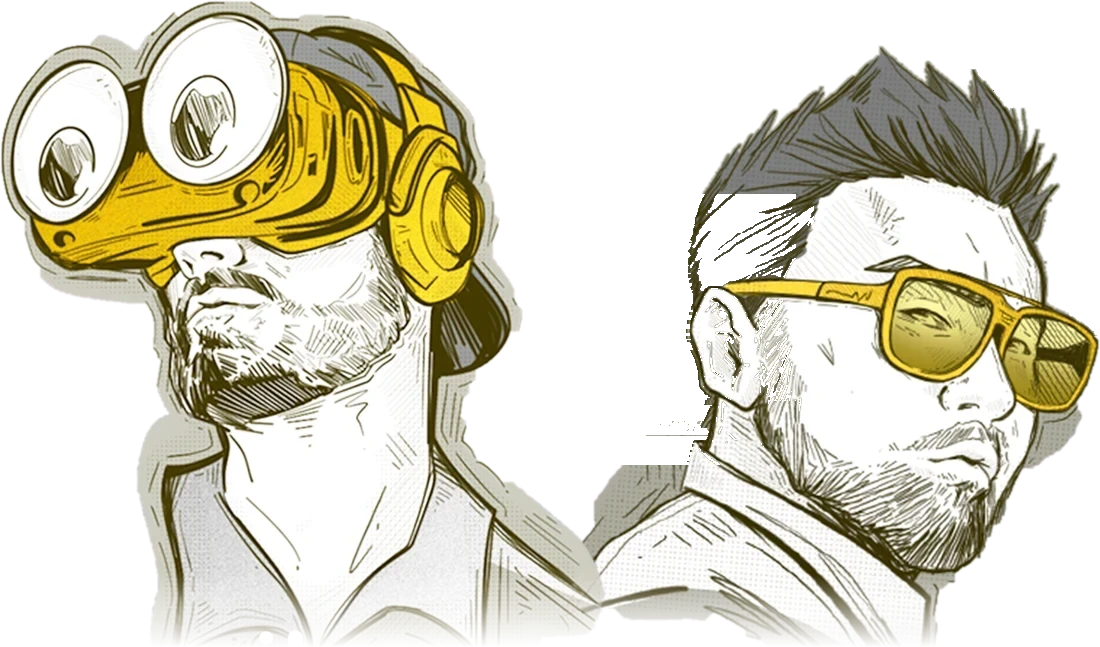
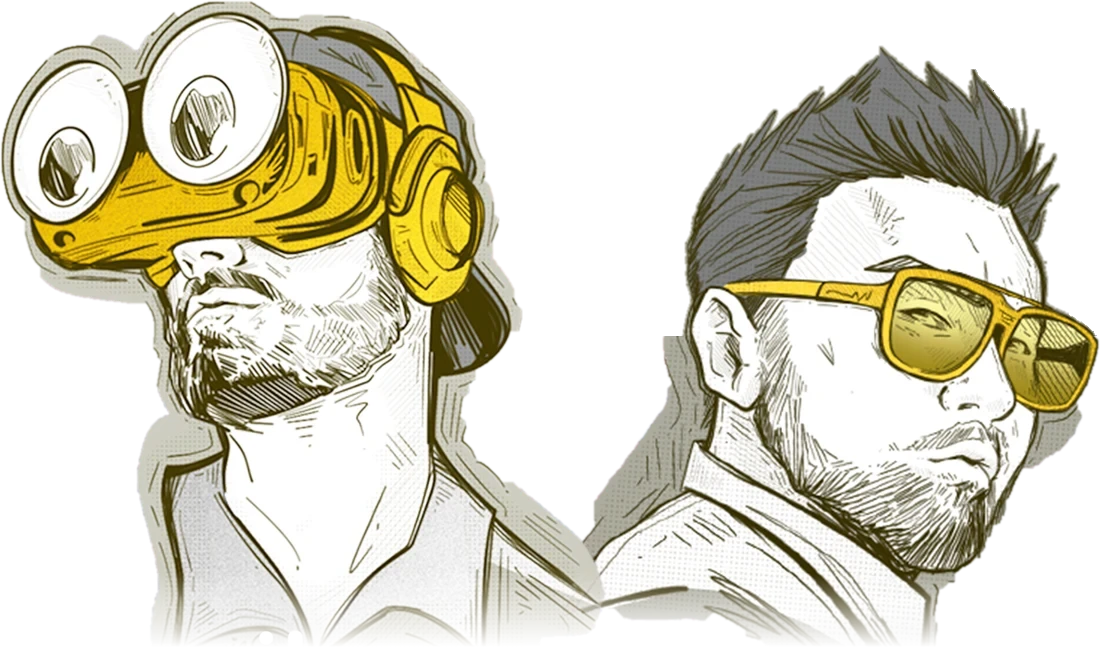
Restore hosts to post-hair-clean version
newsletter-hosts.webp and hosts img drop-shadow back to f2e189d
(right after gonZ hair crop cleanup).

Changed region(s): [[0.5564, 0.2782, 0.7418, 0.7419]]

diff --git a/app/styles/theme.css b/app/styles/theme.css
@@ -4326,7 +4326,7 @@ h2 {
   image-rendering: auto;
 }
 .dispatch__art--hosts { border: 0 !important; background: none !important; display: flex; align-items: flex-end; justify-content: center; min-height: 0 !important; aspect-ratio: auto !important; }
-.dispatch__art--hosts img { width: 100%; height: auto; display: block; filter: none; }
+.dispatch__art--hosts img { width: 100%; height: auto; display: block; filter: drop-shadow(0 10px 18px rgba(0,0,0,.18)); }
 @media (min-width: 768px) {
   .dispatch__art--hosts { align-self: end; margin-top: -4rem; margin-bottom: -3rem; }
   .dispatch__art--hosts img { width: 125%; max-width: none; margin-left: -6%; }
